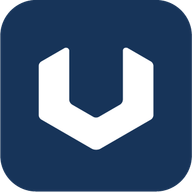
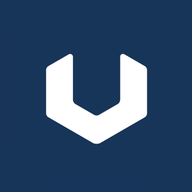
feat(pwa): agregar suite completa de iconos Android, enlace explicito a manifiesto y campos WebAPK

Changed region(s): [[0.1875, 0.25, 0.8125, 0.7812], [0.0, 0.0, 1.0, 1.0]]

diff --git a/web/vite.config.ts b/web/vite.config.ts
@@ -16,21 +16,80 @@ export default defineConfig({
         'apple-touch-icon.png',
         'marca.webp',
         'logo-pwa.png',
+        'pwa-48x48.png',
+        'pwa-72x72.png',
+        'pwa-96x96.png',
+        'pwa-128x128.png',
+        'pwa-144x144.png',
+        'pwa-152x152.png',
+        'pwa-192x192.png',
+        'pwa-384x384.png',
+        'pwa-512x512.png',
+        'pwa-maskable-192x192.png',
+        'pwa-maskable-512x512.png',
       ],
       manifest: {
+        id: '/',
         name: 'UNITHOR - Sistema de Taller',
         short_name: 'UNITHOR',
         description: 'Gestión integral de taller mecánico, órdenes de trabajo, vehículos y cotizaciones',
+        lang: 'es',
+        dir: 'ltr',
         theme_color: '#18335c',
-        background_color: '#f8fafc',
+        background_color: '#173459',
         display: 'standalone',
+        display_override: ['standalone', 'window-controls-overlay'],
         orientation: 'any',
         start_url: '/',
         scope: '/',
+        prefer_related_applications: false,
+        categories: ['business', 'productivity', 'utilities'],
         icons: [
+          {
+            src: '/pwa-48x48.png',
+            sizes: '48x48',
+            type: 'image/png',
+            purpose: 'any',
+          },
+          {
+            src: '/pwa-72x72.png',
+            sizes: '72x72',
+            type: 'image/png',
+            purpose: 'any',
+          },
+          {
+            src: '/pwa-96x96.png',
+            sizes: '96x96',
+            type: 'image/png',
+            purpose: 'any',
+          },
+          {
+            src: '/pwa-128x128.png',
+            sizes: '128x128',
+            type: 'image/png',
+            purpose: 'any',
+          },
+          {
+            src: '/pwa-144x144.png',
+            sizes: '144x144',
+            type: 'image/png',
+            purpose: 'any',
+          },
+          {
+            src: '/pwa-152x152.png',
+            sizes: '152x152',
+            type: 'image/png',
+            purpose: 'any',
+          },
           {
             src: '/pwa-192x192.png',
             sizes: '192x192',
+            type: 'image/png',
+            purpose: 'any',
+          },
+          {
+            src: '/pwa-384x384.png',
+            sizes: '384x384',
             type: 'image/png',
             purpose: 'any',
           },

diff --git a/web/src/components/pwa/PwaInstallModal.tsx b/web/src/components/pwa/PwaInstallModal.tsx
@@ -121,17 +121,21 @@ export const PwaInstallModal = ({ isOpen, platform, onClose }: PwaInstallModalPr
                           2
                         </span>
                         <span>
-                          Selecciona <strong>&quot;Instalar aplicación&quot;</strong> o{' '}
-                          <strong>&quot;Agregar a la pantalla principal&quot;</strong>.
+                          Selecciona <strong>&quot;Instalar aplicación&quot;</strong> (o <strong>&quot;Instalar UNITHOR&quot;</strong>).
                         </span>
                       </li>
                       <li className="flex items-start gap-2.5">
                         <span className="flex h-5 w-5 shrink-0 items-center justify-center rounded-full bg-[#18335c] text-[11px] font-bold text-white">
                           3
                         </span>
-                        <span>Confirma la instalación y se agregará el ícono a tus aplicaciones.</span>
+                        <span>
+                          Confirma en el cuadro de diálogo y Android la instalará como una aplicación real en tu dispositivo.
+                        </span>
                       </li>
                     </ol>
+                    <p className="mt-2.5 text-[11px] text-blue-800">
+                      💡 <em>Consejo: Asegúrate de elegir <strong>&quot;Instalar aplicación&quot;</strong> (no &quot;Acceso directo&quot;) para que se instale con su propio icono sin barra de navegador.</em>
+                    </p>
                   </div>
                 </>
               ) : (

diff --git a/web/index.html b/web/index.html
@@ -18,6 +18,7 @@
     <link rel="icon" type="image/png" sizes="32x32" href="/favicon-32x32.png" />
     <link rel="icon" type="image/png" sizes="192x192" href="/pwa-192x192.png" />
     <link rel="apple-touch-icon" sizes="180x180" href="/apple-touch-icon.png" />
+    <link rel="manifest" href="/manifest.webmanifest" />
 
     <link rel="preconnect" href="https://fonts.googleapis.com" />
     <link rel="preconnect" href="https://fonts.gstatic.com" crossorigin />
